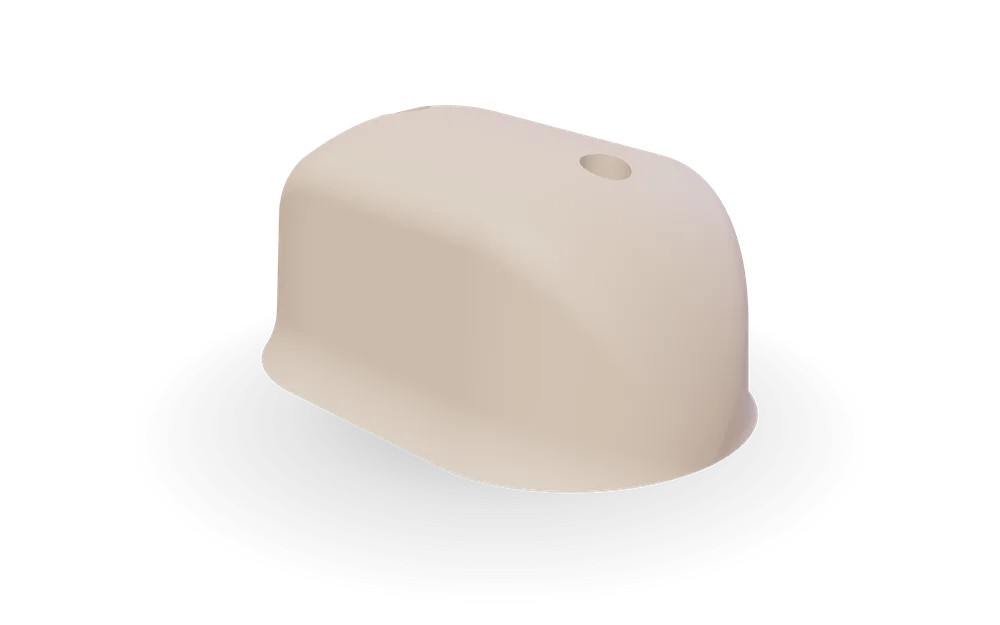
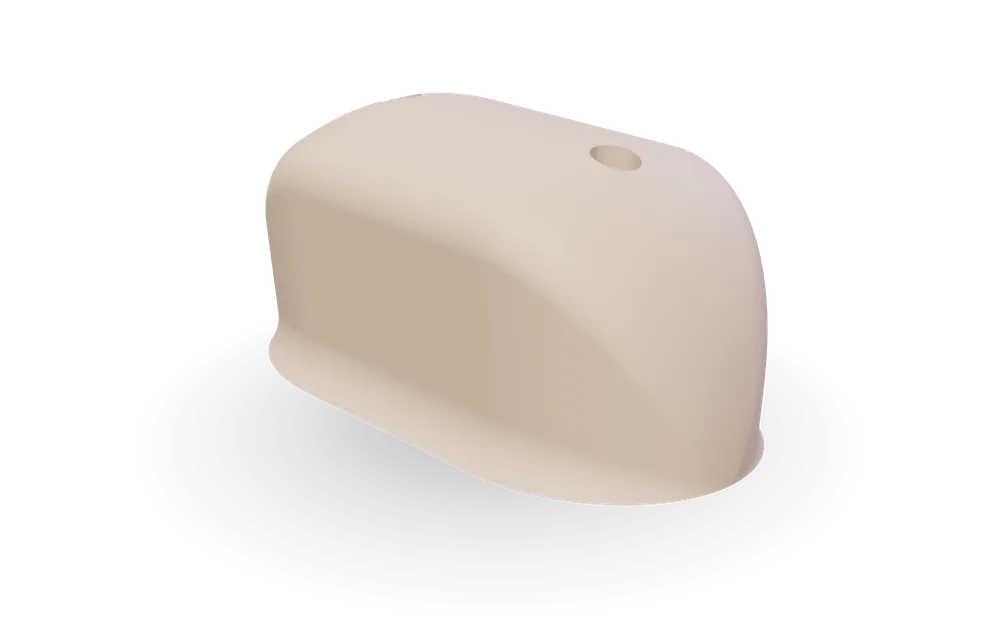
Pinch Lab: presets 10% bigger and 10 degrees more undercut
Every preset's lengths grow by a tenth and both side angles move 10
degrees toward undercut, so the Block pinch default is now 55 mm across
with both sides at -5 degrees. The angle sliders reach -30 so the Lip
pinch's -22 fits, and the help text now says an undercut is the better
grip rather than the wedge. The default's e2e fixture entry, hub card
and Open Graph image are re-rendered from the new shape.

Claude-Session: https://claude.ai/code/session_01Mty9BUD25fHjJqKGVXsX42

diff --git a/src/features/labs/artwork-framing.ts b/src/features/labs/artwork-framing.ts
@@ -34,9 +34,9 @@ export const ARTWORK_FRAMING: Record<
     top: -5.18,
   },
   pinch: {
-    width: 100,
-    left: -0.9,
-    top: -1.6,
+    width: 98.54,
+    left: -0.85,
+    top: 0.54,
   },
   "custom-shape": {
     width: 91.05145413870245,

diff --git a/tools/pinch-generator/parameters.py b/tools/pinch-generator/parameters.py
@@ -9,19 +9,19 @@ class Parameters:
     # The grip: the span across the top edges, how far the finger side
     # stands off the wall, each side's lean, and how much lower the thumb
     # side stands than the finger side.
-    width: float = 50
-    depth: float = 40
-    thumb_angle: float = 5
-    finger_angle: float = 5
+    width: float = 55
+    depth: float = 44
+    thumb_angle: float = -5
+    finger_angle: float = -5
     offset: float = 0
-    edge_radius: float = 8
+    edge_radius: float = 9
     # The body, before overall scale.
     shape: str = "domed"
-    top_rise: float = 6
+    top_rise: float = 6.5
     size: float = 100
-    height: float = 100
+    height: float = 110
     end_rounding: float = 60
-    base_flare: float = 4
+    base_flare: float = 4.5
     character: float = 0
     seed: int = 0
     # Mounting, shared with the other labs. Automatic mounting takes the
@@ -77,21 +77,21 @@ CONTROLS = [
         "thumb_angle",
         "Thumb side angle",
         "Grip",
-        -20,
+        -30,
         40,
         1,
         "°",
-        "Positive leans the side in toward the top, a wedge that is easier to hold. Negative undercuts it, a lip to pinch behind. Relative to the wall's normal, not a grade.",
+        "Negative undercuts the side, a lip to pinch behind: the more undercut, the better it holds. Positive leans it in toward the top, a wedge that slips. Relative to the wall's normal, not a grade.",
     ),
     control(
         "finger_angle",
         "Finger side angle",
         "Grip",
-        -20,
+        -30,
         40,
         1,
         "°",
-        "The same for the side your fingers wrap: positive leans in, negative undercuts.",
+        "The same for the side your fingers wrap: negative undercuts, positive leans in.",
     ),
     control(
         "offset",
@@ -257,65 +257,65 @@ PRESETS = {
     "Block pinch": BASE,
     "Narrow pinch": replace(
         BASE,
-        width=32,
-        depth=34,
-        thumb_angle=0,
-        finger_angle=0,
-        edge_radius=6,
-        top_rise=4,
-        height=90,
+        width=35,
+        depth=37,
+        thumb_angle=-10,
+        finger_angle=-10,
+        edge_radius=6.5,
+        top_rise=4.5,
+        height=99,
     ),
     "Wide pinch": replace(
         BASE,
-        width=75,
-        depth=42,
-        thumb_angle=8,
-        finger_angle=8,
-        edge_radius=10,
-        top_rise=8,
-        height=110,
+        width=83,
+        depth=46,
+        thumb_angle=-2,
+        finger_angle=-2,
+        edge_radius=11,
+        top_rise=9,
+        height=121,
     ),
     "Wedge": replace(
         BASE,
         shape="flat",
-        width=40,
-        depth=44,
-        thumb_angle=25,
-        finger_angle=25,
-        edge_radius=6,
+        width=44,
+        depth=48,
+        thumb_angle=15,
+        finger_angle=15,
+        edge_radius=6.5,
         base_flare=0,
     ),
     "Lip pinch": replace(
         BASE,
         shape="flat",
-        width=56,
-        depth=36,
-        thumb_angle=-12,
-        finger_angle=-12,
-        edge_radius=5,
-        base_flare=8,
+        width=62,
+        depth=40,
+        thumb_angle=-22,
+        finger_angle=-22,
+        edge_radius=5.5,
+        base_flare=9,
     ),
     "Offset pinch": replace(
         BASE,
         shape="flat",
-        width=48,
-        depth=46,
-        thumb_angle=15,
-        finger_angle=-5,
+        width=53,
+        depth=51,
+        thumb_angle=5,
+        finger_angle=-15,
         offset=40,
-        edge_radius=7,
-        base_flare=6,
+        edge_radius=7.5,
+        base_flare=6.5,
     ),
     "Ridged fin": replace(
         BASE,
         shape="ridged",
-        width=38,
-        depth=40,
-        thumb_angle=10,
-        finger_angle=10,
-        edge_radius=5,
-        top_rise=12,
-        height=120,
+        width=42,
+        depth=44,
+        thumb_angle=0,
+        finger_angle=0,
+        edge_radius=5.5,
+        top_rise=13,
+        height=132,
         end_rounding=45,
     ),
 }

diff --git a/tools/pinch-generator/tests/test_geometry.py b/tools/pinch-generator/tests/test_geometry.py
@@ -182,7 +182,7 @@ class PinchTests(unittest.TestCase):
         # Undercut both sides of a narrow, deep pinch as far as they go:
         # the angles ease until the neck is WAIST wide, and the lab is told.
         p = replace(
-            BASE, width=40, depth=70, thumb_angle=-20, finger_angle=-20, screws=False
+            BASE, width=40, depth=70, thumb_angle=-30, finger_angle=-30, screws=False
         )
         model = build(p)
         self.assertIn("thumb_angle", model.adjusted)
